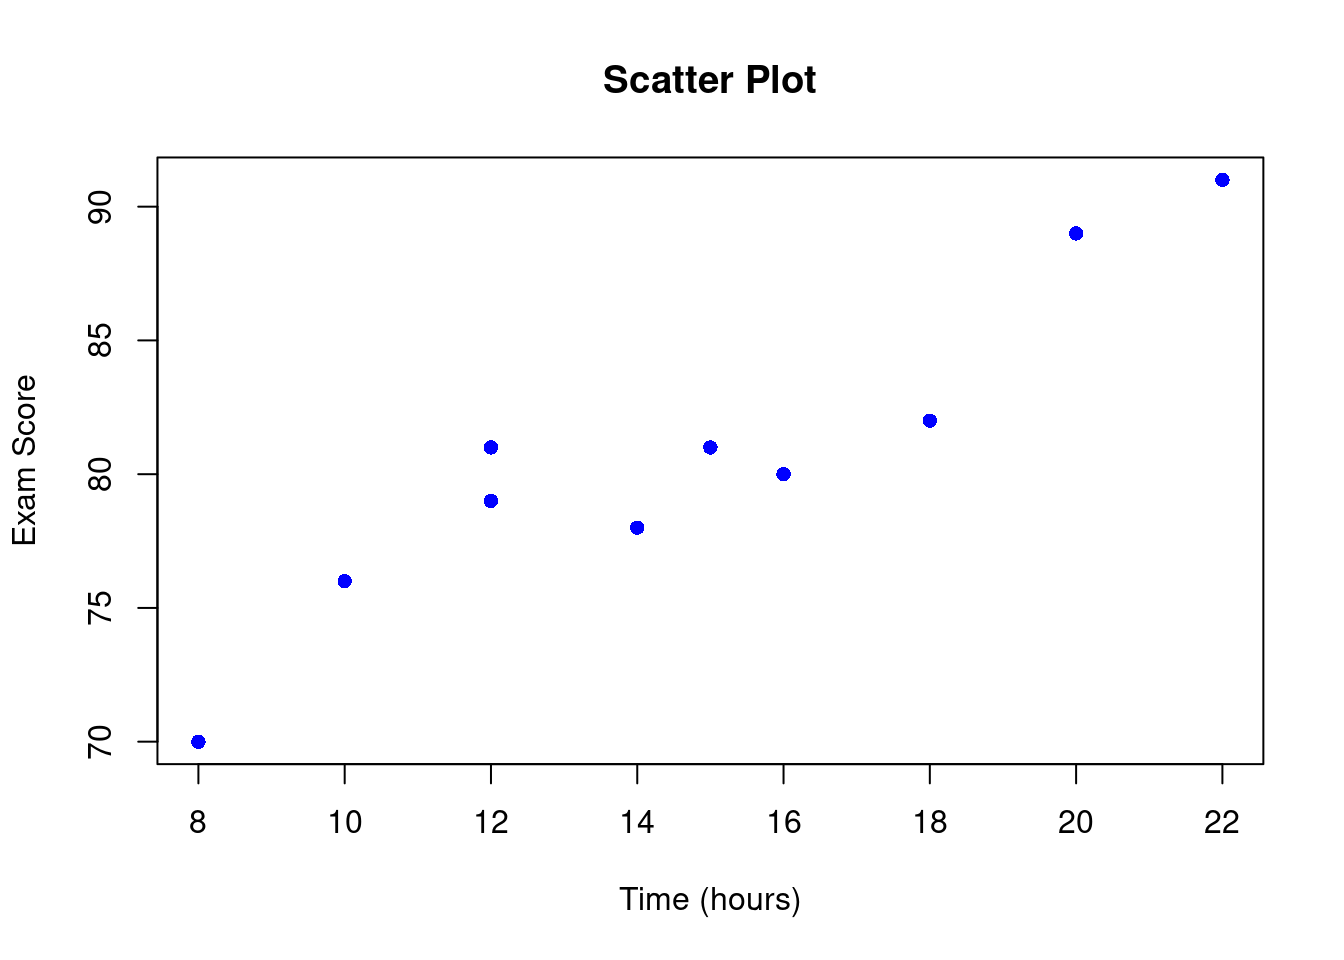
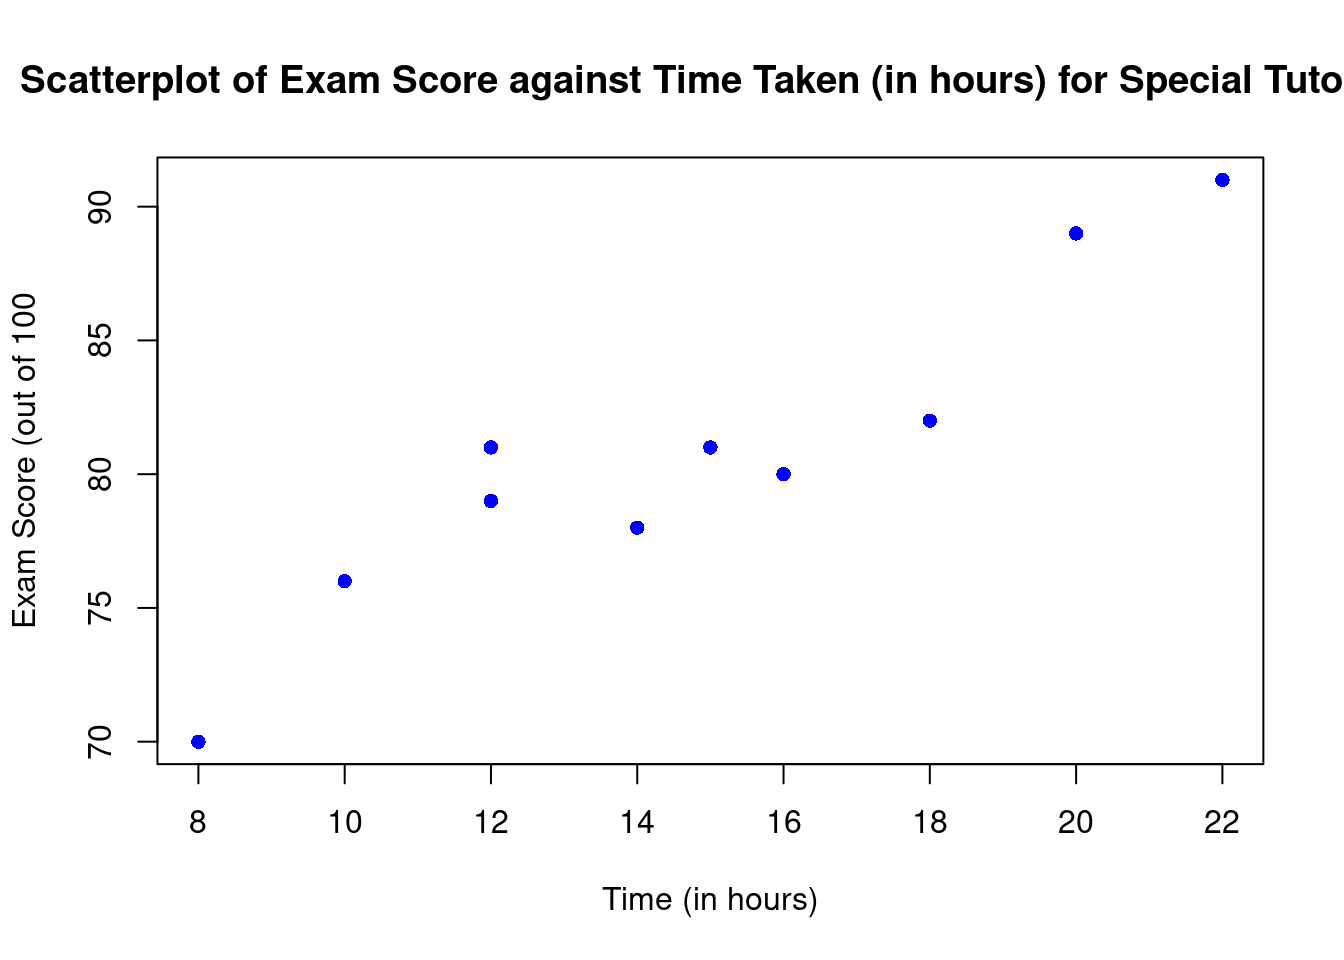
Built site for gh-pages

Changed region(s): [[0.0, 0.0625, 1.0, 0.125], [0.0, 0.3125, 0.0312, 0.6562], [0.4375, 0.9062, 0.5938, 0.9688]]

diff --git a/06.html b/06.html
@@ -232,6 +232,7 @@ window.Quarto = {
   <li><a href="#making-predictions-1" id="toc-making-predictions-1" class="nav-link" data-scroll-target="#making-predictions-1"><span class="header-section-number">5.5.3</span> Making Predictions</a></li>
   <li><a href="#result" id="toc-result" class="nav-link" data-scroll-target="#result"><span class="header-section-number">5.5.4</span> Result</a></li>
   </ul></li>
+  <li><a href="#solved-examples" id="toc-solved-examples" class="nav-link" data-scroll-target="#solved-examples"><span class="header-section-number">5.6</span> Solved Examples</a></li>
   </ul>
 </nav>
     </div>
@@ -366,6 +367,10 @@ Note:               *p&lt;0.1; **p&lt;0.05; ***p&lt;0.01</code></pre>
 </div>
 </div>
 <p>This concludes our discussion on simple linear regression. By understanding the principles outlined here, you’ll be equipped to analyze and interpret the relationship between variables and make predictions using regression models.</p>
+</section>
+</section>
+<section id="solved-examples" class="level2" data-number="5.6">
+<h2 data-number="5.6" class="anchored" data-anchor-id="solved-examples"><span class="header-section-number">5.6</span> Solved Examples</h2>
 <div class="callout callout-style-simple callout-none no-icon callout-titled">
 <div class="callout-header d-flex align-content-center">
 <div class="callout-icon-container">
@@ -377,7 +382,8 @@ Solved Example 1
 </div>
 <div class="callout-body-container callout-body">
 <p>The following data shows the time taken for special tutorial in hours and exam score (out of 100) for a random sample of 10 students.</p>
-<p>Time: 10, 15, 12, 20, 8, 16, 14, 18, 12, 22. Score: 76, 81, 79, 89, 70, 80, 78, 82, 81, 91</p>
+<p>Time: 10, 15, 12, 20, 8, 16, 14, 18, 12, 22.<br>
+Score: 76, 81, 79, 89, 70, 80, 78, 82, 81, 91</p>
 <div class="cell">
 <div class="sourceCode cell-code" id="cb7"><pre class="sourceCode r code-with-copy"><code class="sourceCode r"><span id="cb7-1"><a href="#cb7-1" aria-hidden="true" tabindex="-1"></a><span class="co"># Given data</span></span>
 <span id="cb7-2"><a href="#cb7-2" aria-hidden="true" tabindex="-1"></a>time <span class="ot">&lt;-</span> <span class="fu">c</span>(<span class="dv">10</span>, <span class="dv">15</span>, <span class="dv">12</span>, <span class="dv">20</span>, <span class="dv">8</span>, <span class="dv">16</span>, <span class="dv">14</span>, <span class="dv">18</span>, <span class="dv">12</span>, <span class="dv">22</span>)</span>
@@ -385,9 +391,9 @@ Solved Example 1
 <span id="cb7-4"><a href="#cb7-4" aria-hidden="true" tabindex="-1"></a></span>
 <span id="cb7-5"><a href="#cb7-5" aria-hidden="true" tabindex="-1"></a><span class="co"># Plot scatter plot</span></span>
 <span id="cb7-6"><a href="#cb7-6" aria-hidden="true" tabindex="-1"></a><span class="fu">plot</span>(time, score, </span>
-<span id="cb7-7"><a href="#cb7-7" aria-hidden="true" tabindex="-1"></a>     <span class="at">xlab =</span> <span class="st">"Time (hours)"</span>, </span>
-<span id="cb7-8"><a href="#cb7-8" aria-hidden="true" tabindex="-1"></a>     <span class="at">ylab =</span> <span class="st">"Exam Score"</span>, </span>
-<span id="cb7-9"><a href="#cb7-9" aria-hidden="true" tabindex="-1"></a>     <span class="at">main =</span> <span class="st">"Scatter Plot"</span>,</span>
+<span id="cb7-7"><a href="#cb7-7" aria-hidden="true" tabindex="-1"></a>     <span class="at">xlab =</span> <span class="st">"Time (in hours)"</span>, </span>
+<span id="cb7-8"><a href="#cb7-8" aria-hidden="true" tabindex="-1"></a>     <span class="at">ylab =</span> <span class="st">"Exam Score (out of 100"</span>, </span>
+<span id="cb7-9"><a href="#cb7-9" aria-hidden="true" tabindex="-1"></a>     <span class="at">main =</span> <span class="st">"Scatterplot of Exam Score against Time Taken (in hours) for Special Tutorial"</span>,</span>
 <span id="cb7-10"><a href="#cb7-10" aria-hidden="true" tabindex="-1"></a>     <span class="at">pch =</span> <span class="dv">16</span>, </span>
 <span id="cb7-11"><a href="#cb7-11" aria-hidden="true" tabindex="-1"></a>     <span class="at">col =</span> <span class="st">"blue"</span>)</span></code><button title="Copy to Clipboard" class="code-copy-button"><i class="bi"></i></button></pre></div>
 <div class="cell-output-display">
@@ -409,6 +415,16 @@ Solved Example 1
 </ol>
 </div>
 </div>
+<div class="callout callout-style-simple callout-none no-icon callout-titled">
+<div class="callout-header d-flex align-content-center">
+<div class="callout-icon-container">
+<i class="callout-icon no-icon"></i>
+</div>
+<div class="callout-title-container flex-fill">
+Suggested Procedures on How to Solved?
+</div>
+</div>
+<div class="callout-body-container callout-body">
 <ol type="a">
 <li>Relationship between the two variables</li>
 </ol>
@@ -440,28 +456,42 @@ r = \frac{{n(\sum xy) - (\sum x)(\sum y)}}{{\sqrt{[n\sum x^2 - (\sum x)^2][n\sum
 <ol start="7" type="a">
 <li>Predicting exam score To predict the exam score for a given time taken for special tutorial, we use the regression equation obtained in part (c).</li>
 </ol>
-<p><em>Let’s proceed with the calculations.</em></p>
+</div>
+</div>
+<div class="callout callout-style-simple callout-none no-icon callout-titled">
+<div class="callout-header d-flex align-content-center">
+<div class="callout-icon-container">
+<i class="callout-icon no-icon"></i>
+</div>
+<div class="callout-title-container flex-fill">
+Solution
+</div>
+</div>
+<div class="callout-body-container callout-body">
 <ol type="a">
 <li>Relationship between the two variables</li>
 </ol>
-<p>Based on the scatter plot of the data points, we can observe the pattern and direction of the relationship between the time taken for special tutorial and the exam score. If the points tend to form a straight line sloping upwards from left to right, it indicates a positive linear relationship between the variables. Conversely, if the points tend to form a straight line sloping downwards from left to right, it indicates a negative linear relationship. Additionally, if the points are scattered without any apparent pattern, it suggests a weak or no relationship between the variables.</p>
+<p>Based on the scatter plot of the data points, we can observe the pattern and direction of the relationship between the time taken for special tutorial and the exam score. If the points tend to form a straight line sloping upwards from left to right, it indicates a positive linear relationship between the variables. Conversely, if the points tend to form a straight line sloping downwards from left to right, it indicates a negative linear relationship. Additionally, if the points are scattered without any apparent pattern, it suggests a weak or no relationship between the variables. Hence, for this example, the relationship is <strong>strong positive linear relationship</strong>.</p>
 <ol start="2" type="a">
-<li>Pearson Product Moment Correlation Coefficient Given data: Time: 10, 15, 12, 20, 8, 16, 14, 18, 12, 22 Score: 76, 81, 79, 89, 70, 80, 78, 82, 81, 91</li>
+<li>Pearson Product Moment Correlation Coefficient</li>
 </ol>
+<p>Given data:<br>
+Time: 10, 15, 12, 20, 8, 16, 14, 18, 12, 22<br>
+Score: 76, 81, 79, 89, 70, 80, 78, 82, 81, 91</p>
 <p>Let’s calculate the Pearson correlation coefficient (<span class="math inline">\(r\)</span>):</p>
-<p>First, we need to calculate the sums: <span class="math display">\[\sum x = 10 + 15 + 12 + 20 + 8 + 16 + 14 + 18 + 12 + 22 = 147\]</span> <span class="math display">\[\sum y = 76 + 81 + 79 + 89 + 70 + 80 + 78 + 82 + 81 + 91 = 807\]</span> <span class="math display">\[\sum xy = (10 \times 76) + (15 \times 81) + (12 \times 79) + \dots + (22 \times 91) = 15259\]</span> <span class="math display">\[\sum x^2 = 10^2 + 15^2 + 12^2 + \dots + 22^2 = 2365\]</span> <span class="math display">\[\sum y^2 = 76^2 + 81^2 + 79^2 + \dots + 91^2 = 64209\]</span></p>
-<p>Now, we substitute these values into the formula for <span class="math inline">\(r\)</span>: <span class="math display">\[r = \frac{{10(15259) - (147)(807)}}{{\sqrt{(10 \times 2365 - 147^2)(10 \times 64209 - 807^2)}}}\]</span></p>
-<p>After calculating, we get the value of <span class="math inline">\(r\)</span>.</p>
+<p>First, we need to calculate the sums: <span class="math display">\[\sum x = 10 + 15 + 12 + 20 + 8 + 16 + 14 + 18 + 12 + 22 = 147\]</span> <span class="math display">\[\sum y = 76 + 81 + 79 + 89 + 70 + 80 + 78 + 82 + 81 + 91 = 807\]</span> <span class="math display">\[\sum xy = (10 \times 76) + (15 \times 81) + (12 \times 79) + \dots + (22 \times 91) = 12085\]</span> <span class="math display">\[\sum x^2 = 10^2 + 15^2 + 12^2 + \dots + 22^2 = 2337\]</span> <span class="math display">\[\sum y^2 = 76^2 + 81^2 + 79^2 + \dots + 91^2 = 65449\]</span></p>
+<p>Now, we substitute these values into the formula for <span class="math inline">\(r\)</span>: <span class="math display">\[r = \frac{{10(12085) - (147)(807)}}{{\sqrt{(10 \times 2337 - 147^2)(10 \times 65449 - 807^2)}}} = 0.9297\]</span></p>
+<p>After calculating, we get the value of <span class="math inline">\(r = 0.9297\)</span>. Explanation: <em>There exist a very strong positive linear relationship between exam score and time</em>.</p>
 <ol start="3" type="a">
 <li>Least Squares Regression Equation</li>
 </ol>
 <p>To find the least squares regression equation, we need to calculate the slope (<span class="math inline">\(b\)</span>) and intercept (<span class="math inline">\(a\)</span>).</p>
 <p><span class="math display">\[b = \frac{{n(\sum xy) - (\sum x)(\sum y)}}{{n\sum x^2 - (\sum x)^2}}\]</span> <span class="math display">\[a = \frac{{\sum y - b(\sum x)}}{n}\]</span></p>
-<p>Using the sums calculated in part (b): <span class="math display">\[\sum x = 147, \sum y = 807, \sum xy = 15259, \sum x^2 = 2365, \sum y^2 = 64209\]</span> and <span class="math inline">\(n = 10\)</span>,</p>
+<p>Using the sums calculated in part (b): <span class="math display">\[\sum x = 147, \sum y = 807, \sum xy = 12085, \sum x^2 = 2337, \sum y^2 = 65449\]</span> and <span class="math inline">\(n = 10\)</span>,</p>
 <p>Substitute the values into the formulas:</p>
-<p><span class="math display">\[b = \frac{{10(15259) - (147)(807)}}{{10(2365) - (147)^2}}\]</span> <span class="math display">\[b = \frac{{152590 - 118929}}{{23650 - 21609}}\]</span> <span class="math display">\[b = \frac{{33661}}{{2041}}\]</span> <span class="math display">\[b \approx 16.47\]</span></p>
-<p><span class="math display">\[a = \frac{{807 - (16.47)(147)}}{{10}}\]</span> <span class="math display">\[a = \frac{{807 - 2421.09}}{{10}}\]</span> <span class="math display">\[a \approx -161.91\]</span></p>
-<p>So, the least squares regression equation is: <span class="math display">\[\hat{y} = -161.91 + 16.47x\]</span></p>
+<p><span class="math display">\[b = \frac{{10(12085) - (147)(807)}}{{10(2337) - (147)^2}}\]</span> <span class="math display">\[b = \frac{{120850 - 118929}}{{23370 - 21609}}\]</span> <span class="math display">\[b = \frac{{33661}}{{2041}}\]</span> <span class="math display">\[b \approx 1.26\]</span></p>
+<p><span class="math display">\[a = \frac{{807 - (1.26)(147)}}{{10}}\]</span> <span class="math display">\[a = \frac{{807 - 2421.09}}{{10}}\]</span> <span class="math display">\[a \approx 62.18\]</span></p>
+<p>So, the least squares regression equation is: <span class="math display">\[\hat{y} = 62.18 + 1.26x\]</span></p>
 <ol start="4" type="a">
 <li>Interpreting the intercept value</li>
 </ol>
@@ -474,23 +504,24 @@ r = \frac{{n(\sum xy) - (\sum x)(\sum y)}}{{\sqrt{[n\sum x^2 - (\sum x)^2][n\sum
 <li>Coefficient of Determination</li>
 </ol>
 <p>To calculate <span class="math inline">\(R^2\)</span>, we need to first calculate the predicted values of exam scores (<span class="math inline">\(\hat{y}\)</span>) using the regression equation.</p>
-<p>For each data point: <span class="math display">\[\hat{y}_i = -161.91 + 16.47x_i\]</span></p>
+<p>For each data point: <span class="math display">\[\hat{y}_i = 62.18 + 1.26x_i\]</span></p>
 <p>Then, we calculate the sum of squares regression (SSR) and total sum of squares (SST) to find <span class="math inline">\(R^2\)</span>.</p>
 <p><span class="math display">\[SSR = \sum (\hat{y}_i - \bar{y})^2\]</span> <span class="math display">\[SST = \sum (y_i - \bar{y})^2\]</span></p>
 <p>Where <span class="math inline">\(\bar{y}\)</span> is the mean of the exam scores.</p>
 <p>After calculating SSR and SST, we can find <span class="math inline">\(R^2\)</span> using the formula:</p>
-<p><span class="math display">\[R^2 = \frac{{SSR}}{{SST}}\]</span></p>
+<p><span class="math display">\[R^2 = \frac{{SSR}}{{SST}}\ ,\ or\ = r^2\ = 0.9297^2 = 0.863\]</span> Explanation: <span class="math inline">\(86.4\%\)</span> of the total variation in exam score can be explained by the variation in time spent (in hours) for special tutorial.</p>
 <ol start="7" type="a">
 <li>Predicting exam score</li>
 </ol>
 <p>To predict the exam score for a given time taken for special tutorial, let’s say <span class="math inline">\(x = 15.75\)</span> (15 hours and 45 minutes), we use the regression equation:</p>
-<p><span class="math display">\[\hat{y} = -161.91 + 16.47(15.75)\]</span></p>
+<p><span class="math display">\[\hat{y} = 62.18 + 1.26(15.75)\]</span></p>
 <p>Now, let’s perform the calculations:</p>
-<p><span class="math display">\[\hat{y} = -161.91 + 16.47 \times 15.75\]</span> <span class="math display">\[\hat{y} = -161.91 + 258.8925\]</span> <span class="math display">\[\hat{y} \approx 96.9825\]</span></p>
-<p>So, the predicted exam score for a time of 15 hours and 45 minutes is approximately <span class="math inline">\(96.9825\)</span>.</p>
+<p><span class="math display">\[\hat{y} = 62.18 + 1.26 \times 15.75\]</span> <span class="math display">\[\hat{y} = 82.025 \approx 82\]</span></p>
+<p>So, the predicted exam score for a time of 15 hours and 45 minutes is approximately <span class="math inline">\(82\)</span>.</p>
+</div>
+</div>
 
 
-</section>
 </section>
 
 </main> <!-- /main -->
